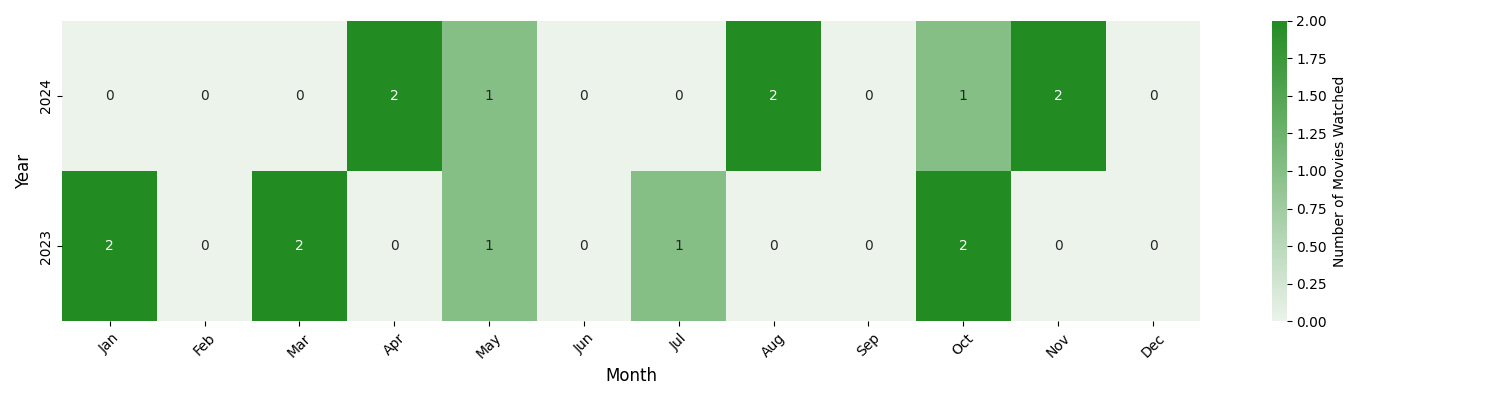
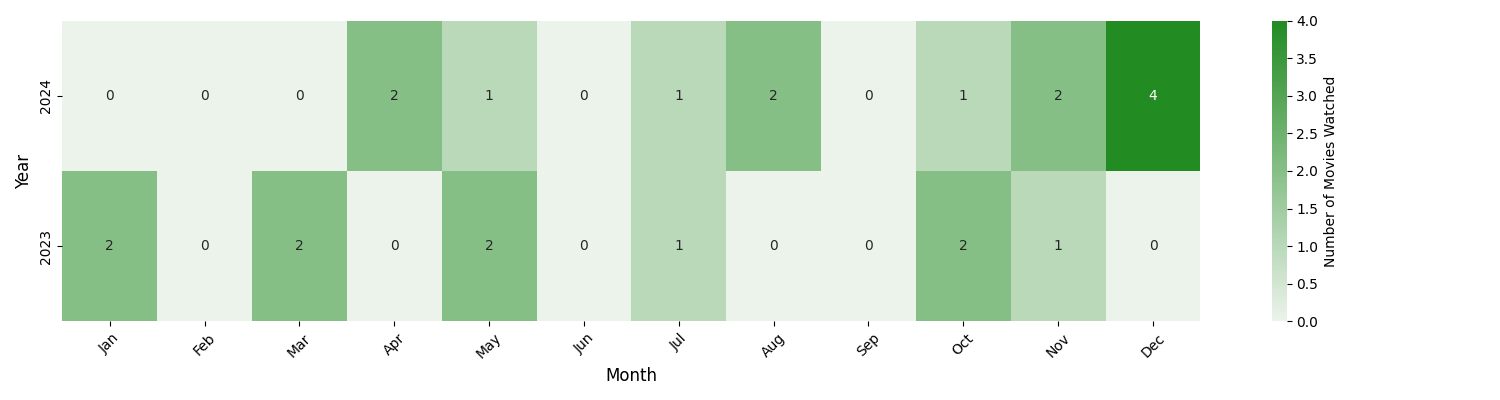
Update ratings page for all 2024 media

diff --git a/scripts/addReviews.py b/scripts/addReviews.py
@@ -60,8 +60,8 @@ def add_movie_review(title, rating , brief_review, genre, watchDate ,file_path='
 - **Brief Review**: {brief_review}
 """
     
-    # To append movie at the top, use index 8
-    # insertion_index = 8
+    # To append movie at the top, use index 30
+    insertion_index = 29
 
     # To append movie at the end
     # insertion_index = len(content)
@@ -77,14 +77,13 @@ def add_movie_review(title, rating , brief_review, genre, watchDate ,file_path='
 def main():
     # Demonstration of how to use the function
     add_movie_review(
-        title="Fatherhood (Kevin Hart)",
-        rating= 4,
+        title="Easy A 2010",
+        rating= 2,
         brief_review="""
-        Cliche, theek hai tho
-        Powerful story 
+Starting feels dull, plot lacks any character, felt like a waste of time, had a stereotypical Indian character which I find very off-putting
         """,
-        genre="Documentary",
-        watchDate="31 October 2023"
+        genre="Coming of Age",
+        watchDate="30 December 2024"
     )
 
 if __name__ == "__main__":

diff --git a/media/rating.md b/media/rating.md
@@ -27,6 +27,48 @@ hidden : true
 
 ## Watch List 2024
 
+
+### Easy A 2010
+- **Rating**: ★☆☆☆☆ 2
+- **Genre**: Coming of Age
+- **Date** : 30 December 2024
+- **Brief Review**: 
+Starting feels dull, plot lacks any character, felt like a waste of time, had a stereotypical Indian character which I find very off-putting
+        
+
+
+### John Tucker Must Die 2006
+- **Rating**: ★★★☆☆ 7
+- **Genre**: Coming of Age
+- **Date** : 29 December 2024
+- **Brief Review**: 
+Funny coming of the age movie, but tries to combine a lesson with the fun which ruins it all
+Kate kinda had tooo good of an ending to be true, but we all wished for it right
+        
+
+
+### Superhero Movie 2008
+- **Rating**: ★★★★☆ 9
+- **Genre**: nonsensical
+- **Date** : 28 December 2024
+- **Brief Review**: 
+        Kevin Hart being the token black guy, epic parody  film, has that one guy from the Airplane (1980) movie as well.\
+Combines the Xmen in a much smoother fashion\
+Titanium blades, they cut through diamonds; I'm not wearing any diamonds\
+Amazing Bonus credit / deleted scenes
+        
+
+
+### Swades
+- **Rating**: ★★★★☆ 9
+- **Genre**: Drama
+- **Date** : 27 December 2024
+- **Brief Review**: 
+        Great cinematic shots in the end, 
+        almost felt like an NRI who just had to return to his homeland to sort stuff out. 
+        Amazing watch
+        
+
 ### Pineapple Express 2007
 - **Rating**: ★★★★☆ 9
 - **Genre**: nonsensical
